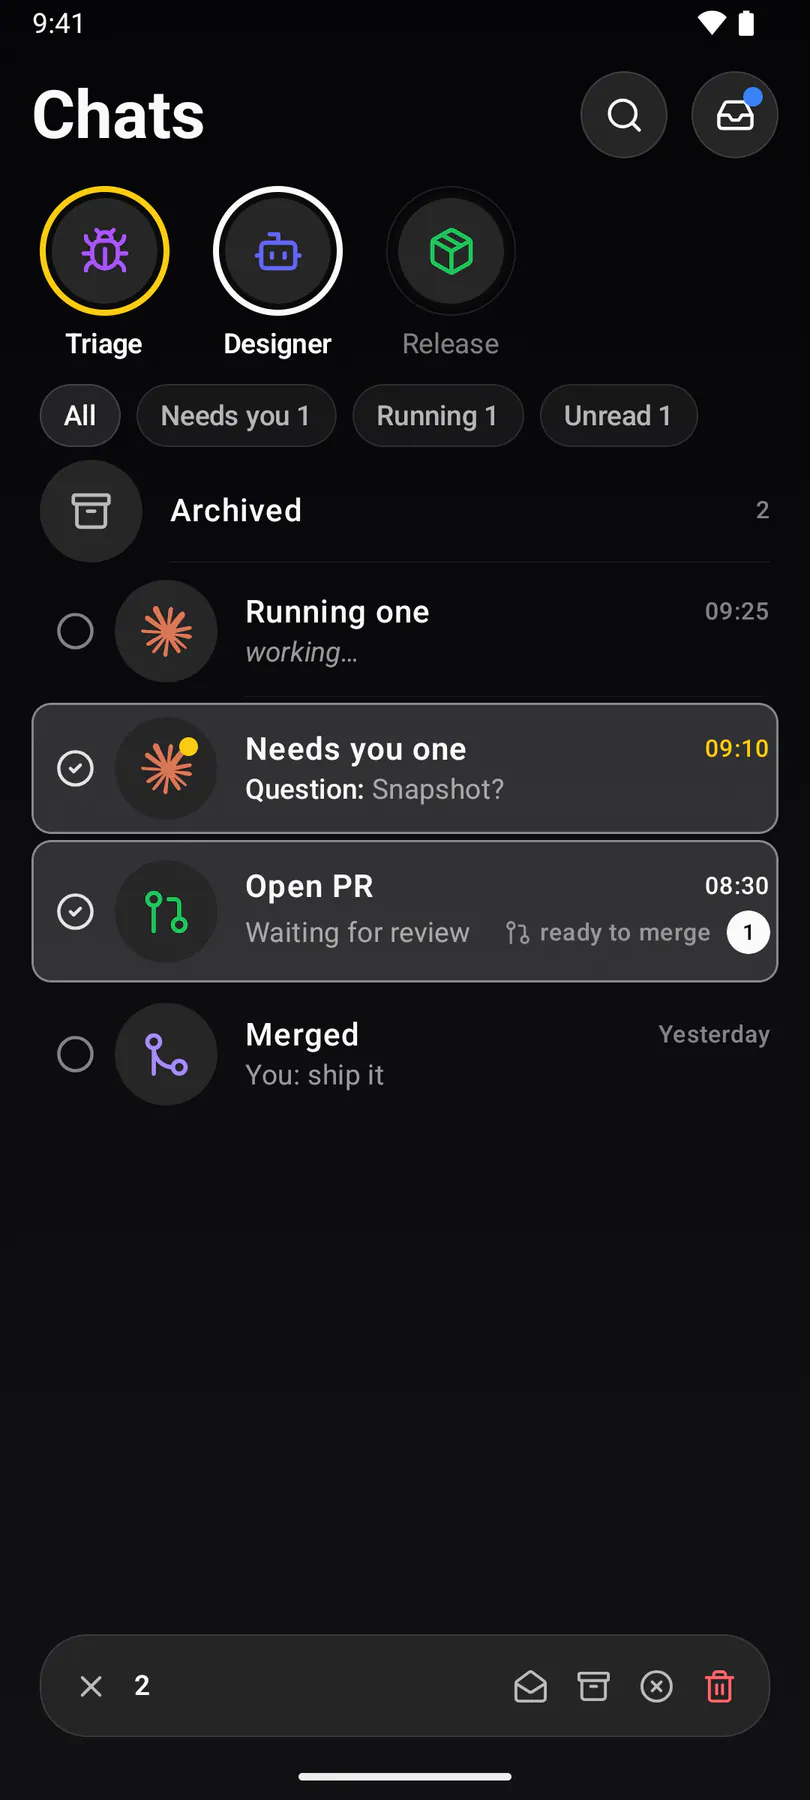
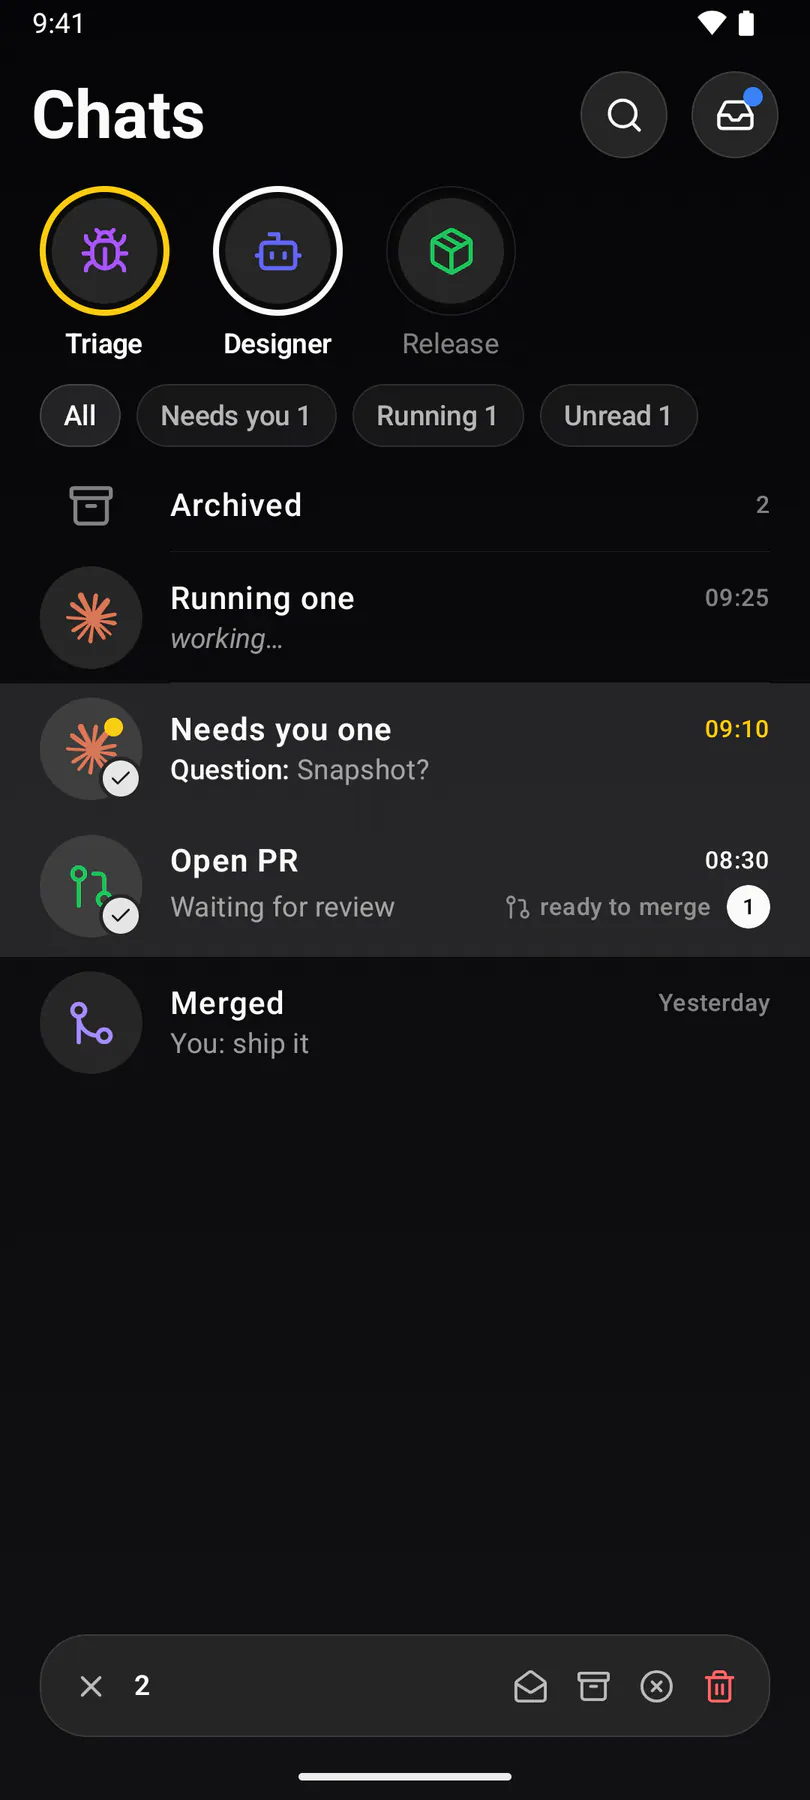
EXP-1388: Android: chat selection = full-width tint + check badge on the disc (no shift), stronger selected disc, plain Archived glyph

Changed region(s): [[0.0, 0.2489, 1.0, 0.6222], [0.8642, 0.3111, 0.9568, 0.3422]]

diff --git a/apps/android/app/src/main/java/com/exponential/app/ui/components/ChatComponents.kt b/apps/android/app/src/main/java/com/exponential/app/ui/components/ChatComponents.kt
@@ -31,6 +31,7 @@ import androidx.compose.ui.Alignment
 import androidx.compose.ui.Modifier
 import androidx.compose.ui.draw.clip
 import androidx.compose.ui.graphics.Color
+import androidx.compose.ui.graphics.compositeOver
 import androidx.compose.ui.graphics.vector.ImageVector
 import androidx.compose.ui.hapticfeedback.HapticFeedbackType
 import androidx.compose.ui.platform.LocalHapticFeedback
@@ -48,7 +49,6 @@ import com.exponential.app.ui.parseColor
 import com.exponential.app.ui.theme.DesignTokens
 import com.exponential.app.ui.theme.GlassTokens
 import com.exponential.app.ui.theme.TextEmphasis
-import com.exponential.app.ui.theme.glassRow
 
 // Thread 58cb32df (fixtures/chats.json): the CHATS pieces Android draws on the
 // phone shell (the header is the shared [PageHeader]) — the agent bubbles,
@@ -72,10 +72,13 @@ fun ChatLeadDisc(
     agent: String?,
     modifier: Modifier = Modifier,
     size: Dp = Chats.Shell.LEAD_DISC.dp,
+    selected: Boolean = false,
 ) {
     val glyph = size * 0.5f
     Box(
-        modifier = modifier.size(size).clip(CircleShape).background(DiscFill, CircleShape),
+        modifier = modifier.size(size).clip(CircleShape).background(DiscFill, CircleShape)
+            // #EXP-1388: a selected row's disc steps one grey notch up.
+            .then(if (selected) Modifier.background(GlassTokens.RowFillActive, CircleShape) else Modifier),
         contentAlignment = Alignment.Center,
     ) {
         when (lead) {
@@ -116,10 +119,10 @@ fun ChatLeadDisc(
  * The hairline runs under the text column only. A tap opens the chat; a
  * long-press enters the selection ([onLongClick], null = none; #EXP-1388;
  * the caller fires the haptic when it ENTERS, like the issue list).
- * While selecting ([selected] non-null) the row leads with THE selection
- * glyph cell at the issue card's x, and a selected row wears the issue
- * card's selected paint (its glass card + [selectedRowHighlight]) in the
- * same gutter and radius.
+ * While selecting ([selected] non-null) NOTHING shifts (touch, WhatsApp's
+ * selection): an unselected row looks as it does outside the selection; a
+ * selected row = the full-width flat `fillActive` tint + [ChatSelectBadge]
+ * on its (one notch stronger) lead disc.
  */
 @OptIn(ExperimentalFoundationApi::class)
 @Composable
@@ -139,29 +142,24 @@ fun ChatRow(
         unread -> MaterialTheme.colorScheme.onSurface
         else -> muted
     }
-    // The row sits in the issue list's gutter so a selected one is the issue
-    // card; the text keeps its 20dp edges (20 = gutter + [ChatRowInner]).
     val isSelected = selected == true
     Row(
         modifier = modifier
             .fillMaxWidth()
-            // Half the issue list's 3dp row gap each side, so two selected
-            // neighbours read as two cards.
-            .padding(horizontal = SelectionRowGutter, vertical = 1.5.dp)
-            .clip(RoundedCornerShape(GlassTokens.RowRadius))
-            .then(if (isSelected) Modifier.glassRow() else Modifier)
-            .selectedRowHighlight(isSelected)
+            // Edge to edge, no radius, no hairline.
+            .then(if (isSelected) Modifier.background(GlassTokens.RowFillActive) else Modifier)
             .combinedClickable(onClick = onClick, onLongClick = onLongClick)
             .testTag(Chats.TestIds.CHAT_ROW)
-            // Selecting: the glyph cell starts where the issue card's does.
-            .padding(start = if (selected != null) GlassTokens.RowPaddingH else ChatRowInner, end = 0.dp),
+            .padding(start = ChatRowEdge),
         verticalAlignment = Alignment.CenterVertically,
     ) {
-        if (selected != null) SelectionGlyph(selected)
-        ChatLeadDisc(row.lead, agent)
+        Box {
+            ChatLeadDisc(row.lead, agent, selected = isSelected)
+            if (isSelected) ChatSelectBadge(Modifier.align(Alignment.BottomEnd))
+        }
         Spacer(Modifier.width(14.dp))
         Column(modifier = Modifier.weight(1f)) {
-            Column(modifier = Modifier.padding(end = ChatRowInner, top = 14.dp, bottom = 14.dp)) {
+            Column(modifier = Modifier.padding(end = ChatRowEdge, top = 14.dp, bottom = 14.dp)) {
                 Row(verticalAlignment = Alignment.CenterVertically) {
                     Text(
                         row.title,
@@ -195,10 +193,10 @@ fun ChatRow(
                 }
             }
             if (divider) {
-                // A selected card's border closes it; the hairline keeps its
+                // A selected row is one flat tint; the hairline keeps its
                 // height so selecting never reflows the list.
                 Box(
-                    Modifier.fillMaxWidth().padding(end = ChatRowInner).height(GlassTokens.Hairline)
+                    Modifier.fillMaxWidth().padding(end = ChatRowEdge).height(GlassTokens.Hairline)
                         .then(if (isSelected) Modifier else Modifier.background(GlassTokens.StrokeCard)),
                 )
             }
@@ -206,16 +204,46 @@ fun ChatRow(
     }
 }
 
-/** A chat row's inner edge inside the [SelectionRowGutter] (20dp from the
- *  screen edge in all). */
-private val ChatRowInner: Dp = 20.dp - SelectionRowGutter
+/** A chat row's text edge from the screen edge (both sides). */
+private val ChatRowEdge: Dp = 20.dp
+
+/** The selected row's ground: the screen under the `fillActive` tint. */
+private val SelectedRowGround: Color = GlassTokens.RowFillActive.compositeOver(DesignTokens.Palette.Background)
+
+/**
+ * #EXP-1388 THE SELECT BADGE (styleguide `chat-selection`): a
+ * `shell.selectBadge` filled primary circle holding ui-check
+ * (`shell.selectBadgeGlyph`, primary-foreground) inside a
+ * `shell.selectBadgeRing` ring in the selected row's ground, so it reads cut
+ * out of the disc. Its outer box sits flush with the disc's bottom-right.
+ */
+@Composable
+fun ChatSelectBadge(modifier: Modifier = Modifier) {
+    val ring = Chats.Shell.SELECT_BADGE_RING.dp
+    Box(
+        modifier = modifier
+            .size(Chats.Shell.SELECT_BADGE.dp + ring * 2)
+            .background(SelectedRowGround, CircleShape)
+            .padding(ring)
+            .background(MaterialTheme.colorScheme.primary, CircleShape),
+        contentAlignment = Alignment.Center,
+    ) {
+        Icon(
+            ExpIcons.uiCheck,
+            contentDescription = "Selected",
+            tint = MaterialTheme.colorScheme.onPrimary,
+            modifier = Modifier.size(Chats.Shell.SELECT_BADGE_GLYPH.dp),
+        )
+    }
+}
 
 /**
  * #EXP-1388 THE ARCHIVED ENTRY: the list's first row while chats are
- * archived (filter All) = a chat row with ui-archive in its lead disc, the
- * title `copy.archived.entry` and the count in the time slot (muted), no
- * preview line. A tap opens the Archived page ([onClick] null = inert, while
- * selecting).
+ * archived (filter All) = a chat row whose lead cell holds the PLAIN
+ * ui-archive glyph (`shell.archivedGlyph`, muted, no disc, centred in the
+ * `leadDisc` column), the title `copy.archived.entry` and the count in the
+ * time slot (muted), no preview line; as tall as its text line. A tap opens
+ * the Archived page ([onClick] null = inert, while selecting); it never moves.
  */
 @Composable
 fun ChatArchivedRow(
@@ -230,24 +258,21 @@ fun ChatArchivedRow(
             .fillMaxWidth()
             .then(if (onClick != null) Modifier.clickable(onClick = onClick) else Modifier)
             .testTag(Chats.TestIds.CHAT_ARCHIVED)
-            .padding(start = 20.dp, end = 0.dp),
+            .padding(start = ChatRowEdge),
         verticalAlignment = Alignment.CenterVertically,
     ) {
-        Box(
-            modifier = Modifier.size(Chats.Shell.LEAD_DISC.dp).clip(CircleShape).background(DiscFill, CircleShape),
-            contentAlignment = Alignment.Center,
-        ) {
+        Box(modifier = Modifier.width(Chats.Shell.LEAD_DISC.dp), contentAlignment = Alignment.Center) {
             Icon(
                 ExpIcons.uiArchive,
                 contentDescription = null,
-                tint = MaterialTheme.colorScheme.onSurface.copy(alpha = TextEmphasis.Secondary),
-                modifier = Modifier.size(Chats.Shell.LEAD_DISC.dp * 0.42f),
+                tint = muted,
+                modifier = Modifier.size(Chats.Shell.ARCHIVED_GLYPH.dp),
             )
         }
         Spacer(Modifier.width(14.dp))
         Column(modifier = Modifier.weight(1f)) {
             Row(
-                modifier = Modifier.padding(end = 20.dp, top = 14.dp, bottom = 14.dp).heightIn(min = 24.dp),
+                modifier = Modifier.padding(end = ChatRowEdge, top = 14.dp, bottom = 14.dp),
                 verticalAlignment = Alignment.CenterVertically,
             ) {
                 Text(
@@ -269,7 +294,7 @@ fun ChatArchivedRow(
                 )
             }
             if (divider) {
-                Box(Modifier.fillMaxWidth().padding(end = 20.dp).height(GlassTokens.Hairline).background(GlassTokens.StrokeCard))
+                Box(Modifier.fillMaxWidth().padding(end = ChatRowEdge).height(GlassTokens.Hairline).background(GlassTokens.StrokeCard))
             }
         }
     }

diff --git a/apps/android/app/src/test/java/com/exponential/app/domain/ChatsTest.kt b/apps/android/app/src/test/java/com/exponential/app/domain/ChatsTest.kt
@@ -519,6 +519,10 @@ class ChatsTest {
         assertEquals(header.getValue("buttons").jsonArray.map { it.jsonPrimitive.content }, Chats.Shell.Header.BUTTONS)
         assertEquals(header.getValue("circle").jsonPrimitive.int, Chats.Shell.Header.CIRCLE)
         assertEquals(shell.getValue("leadDisc").jsonPrimitive.int, Chats.Shell.LEAD_DISC)
+        assertEquals(shell.getValue("selectBadge").jsonPrimitive.int, Chats.Shell.SELECT_BADGE)
+        assertEquals(shell.getValue("selectBadgeRing").jsonPrimitive.int, Chats.Shell.SELECT_BADGE_RING)
+        assertEquals(shell.getValue("selectBadgeGlyph").jsonPrimitive.int, Chats.Shell.SELECT_BADGE_GLYPH)
+        assertEquals(shell.getValue("archivedGlyph").jsonPrimitive.int, Chats.Shell.ARCHIVED_GLYPH)
         assertEquals(shell.getValue("bubble").jsonPrimitive.int, Chats.Shell.BUBBLE)
         assertEquals(shell.getValue("bubbleRing").jsonPrimitive.int, Chats.Shell.BUBBLE_RING)
         assertEquals(fixture.getValue("filters").jsonArray.map { it.jsonPrimitive.content }, Chats.FILTERS.map { it.wire })

diff --git a/apps/android/app/src/main/java/com/exponential/app/domain/Chats.kt b/apps/android/app/src/main/java/com/exponential/app/domain/Chats.kt
@@ -218,6 +218,16 @@ object Chats {
 
         val BOARD_CHIPS: List<String> = listOf("all", "mine", "drafts")
         const val LEAD_DISC = 52
+
+        /** #EXP-1388 the touch SELECT BADGE on a selected row's lead disc:
+         *  the filled primary circle, its ring (the row's ground) and the
+         *  ui-check glyph inside (dp). */
+        const val SELECT_BADGE = 18
+        const val SELECT_BADGE_RING = 2
+        const val SELECT_BADGE_GLYPH = 12
+
+        /** The Archived entry's plain ui-archive glyph (dp). */
+        const val ARCHIVED_GLYPH = 24
         const val BUBBLE = 66
         const val BUBBLE_RING = 3
     }

diff --git a/apps/android/app/src/main/java/com/exponential/app/ui/styleguide/ChatSpecimens.kt b/apps/android/app/src/main/java/com/exponential/app/ui/styleguide/ChatSpecimens.kt
@@ -206,8 +206,8 @@ fun chatSelectionSpecimenActions(): List<Chats.ChatSelectionEntry> = Chats.chatS
 )
 
 /** THE Chats list in selection mode: the Archived entry first, listCases[0]
- *  with two rows selected (the selection glyphs + the issue card's selected
- *  paint), THE BAR (the bare count) in the tab bar's
+ *  with two rows selected (nothing shifts: the full-width tint + the select
+ *  badge on the stronger disc), THE BAR (the bare count) in the tab bar's
  *  slot (shot `sg_chat-selection`). */
 @Composable
 fun ChatSelectionSpecimenScreen() {
